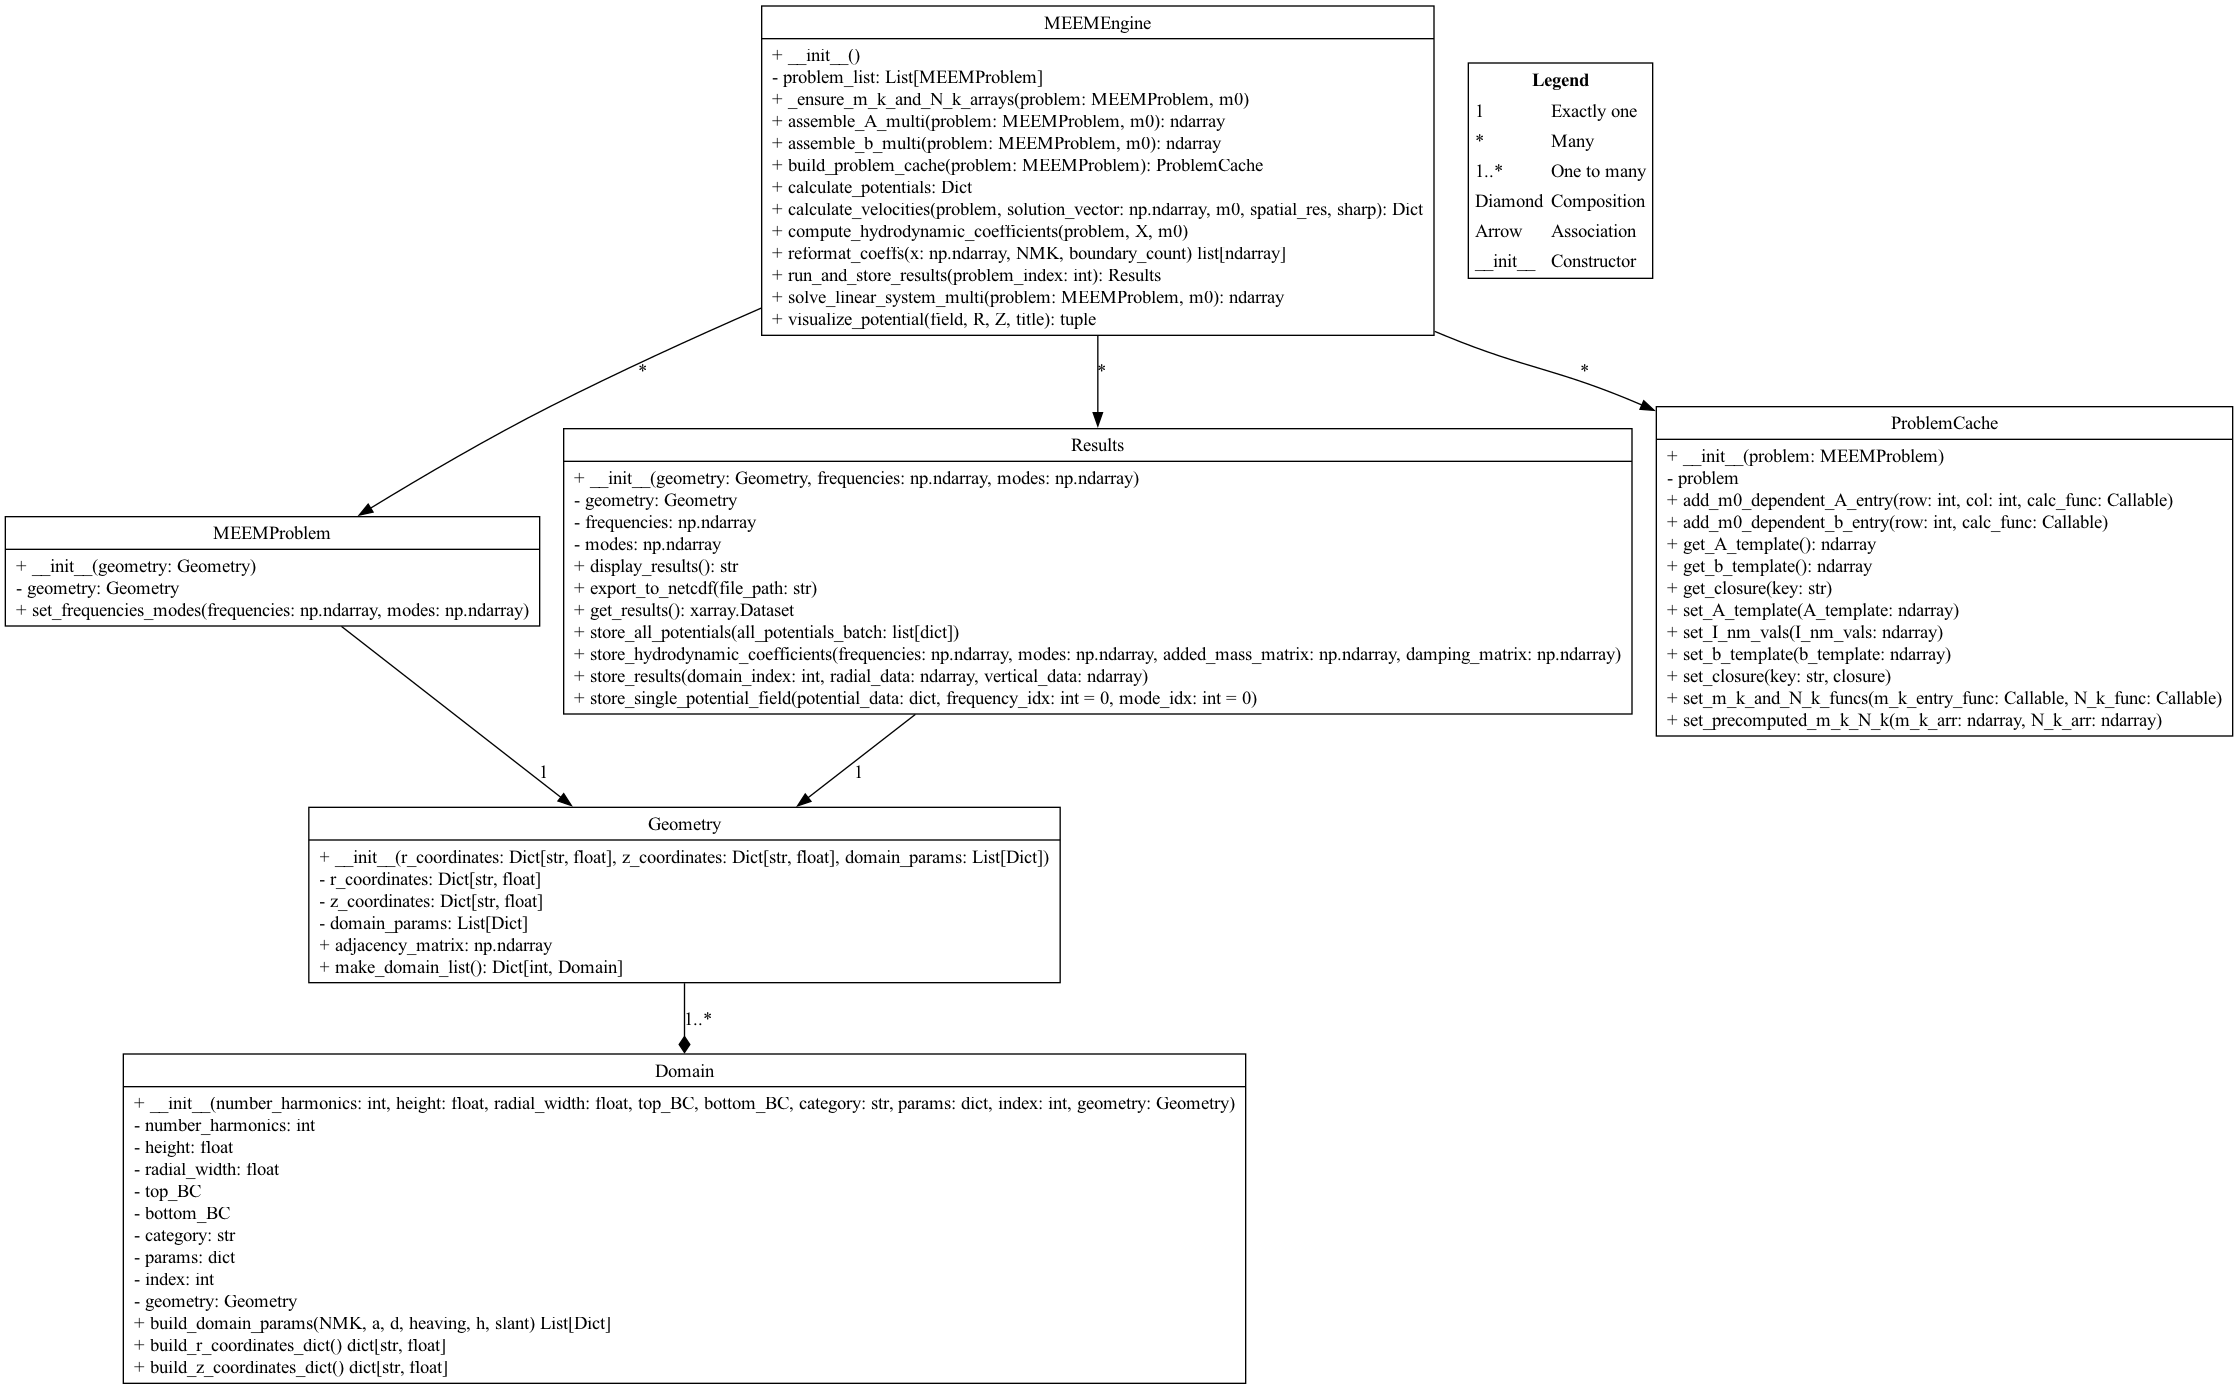
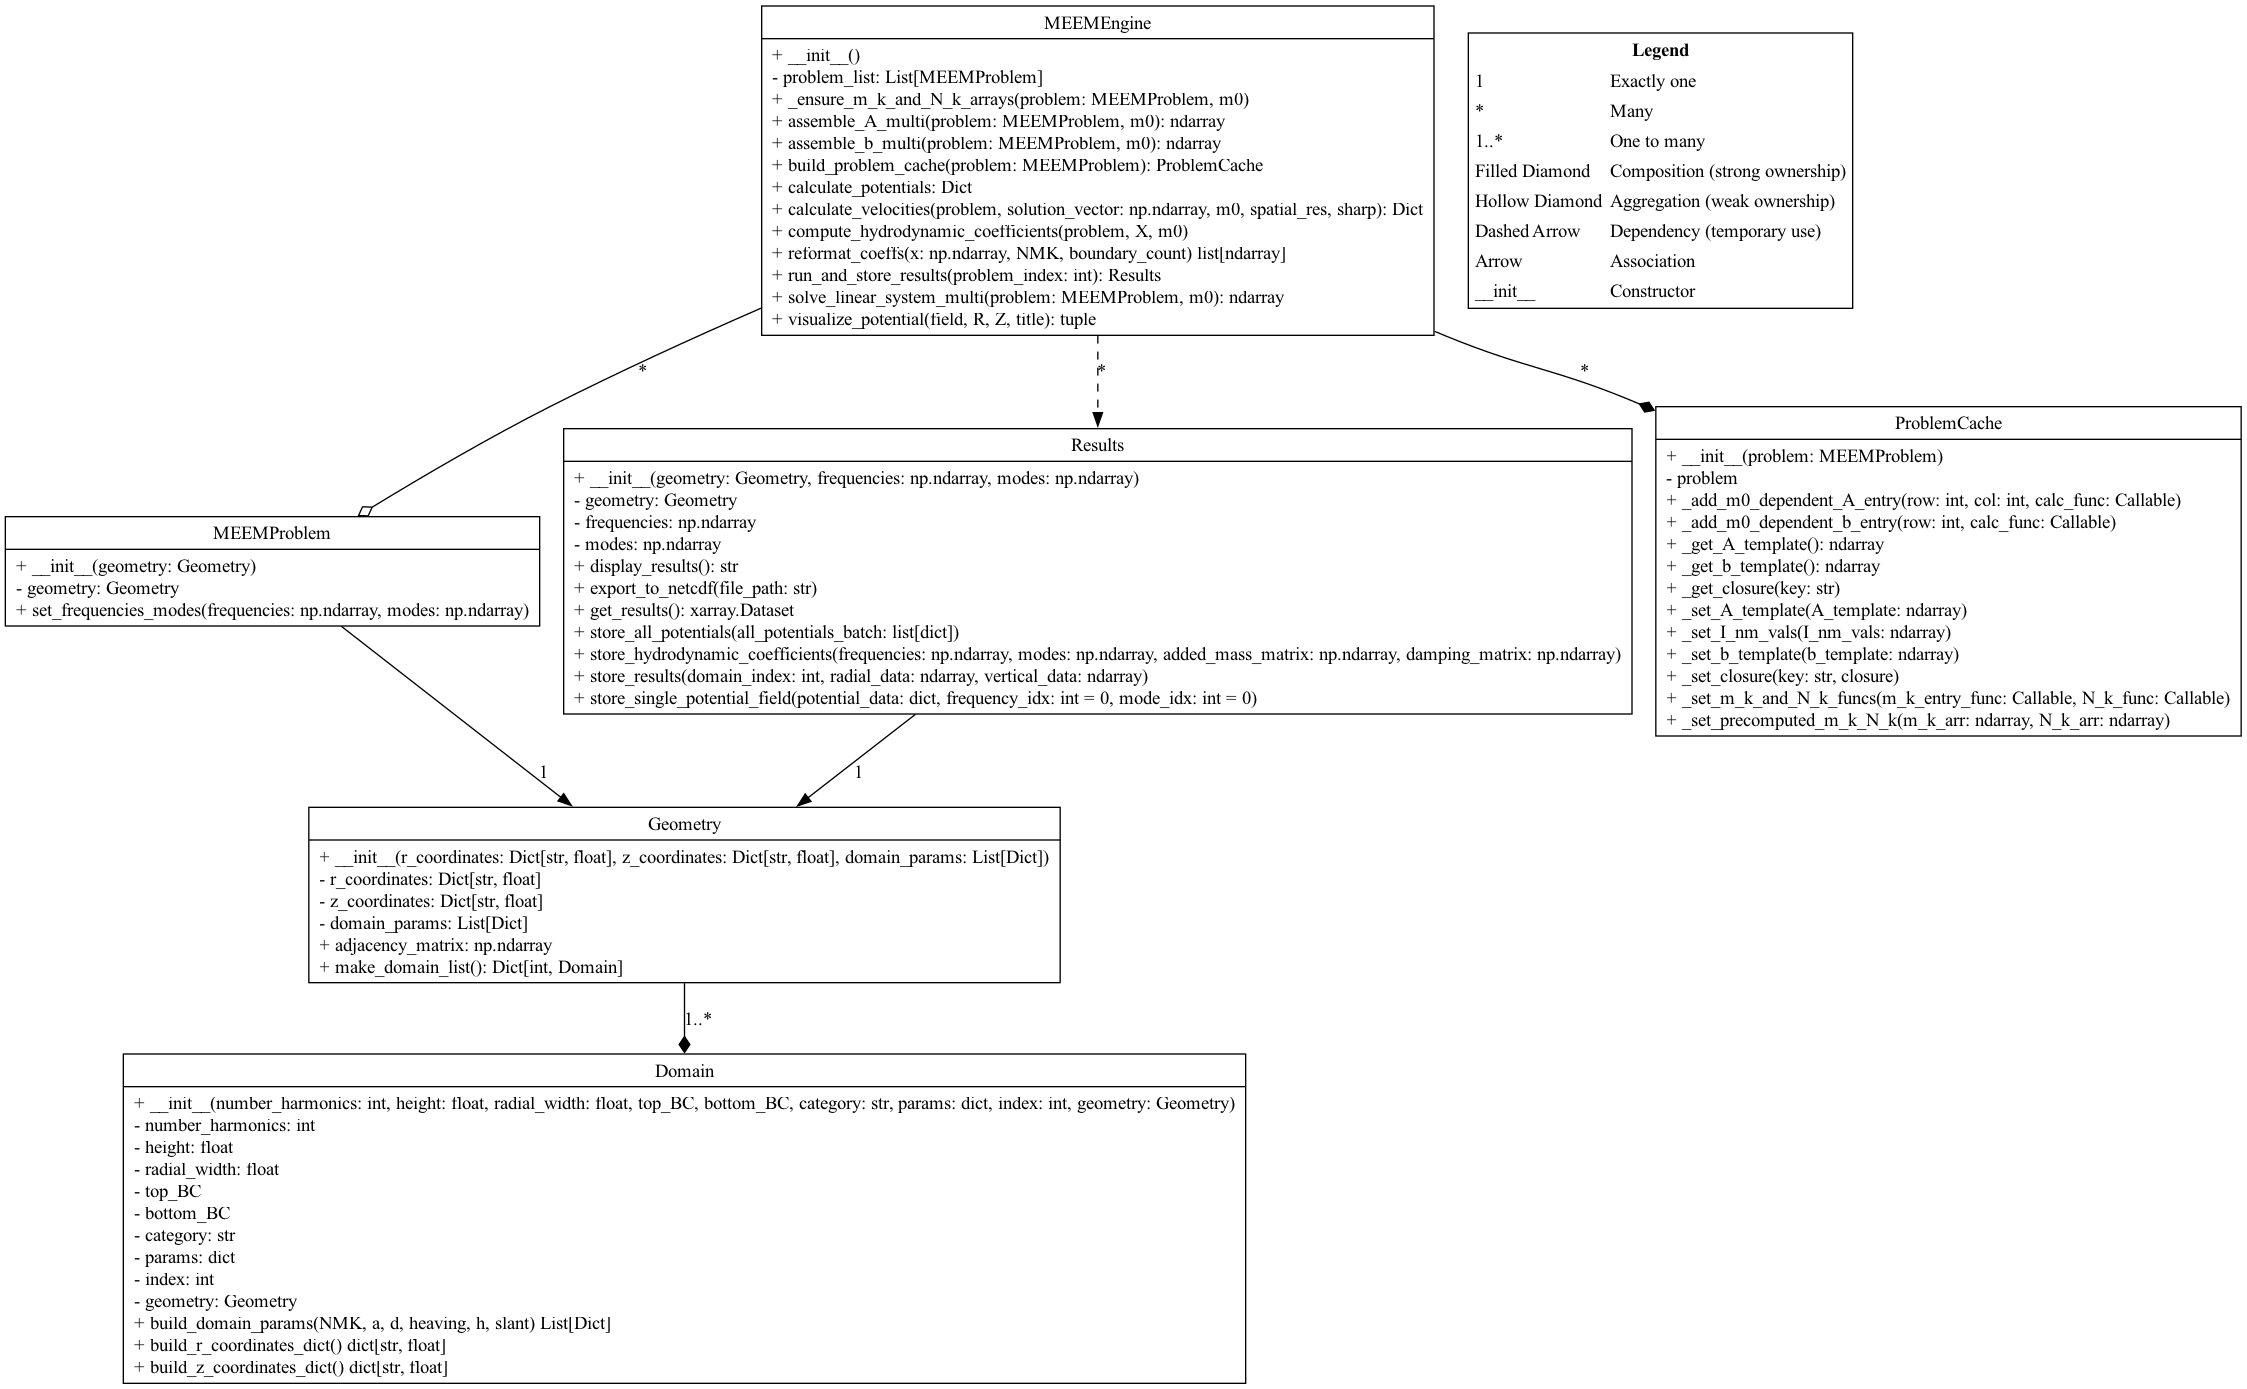
adding index.html for github pages

diff --git a/index.html b/index.html
@@ -1,0 +1,220 @@
+<!DOCTYPE html>
+<html>
+
+<head>
+    <meta charset="UTF-8" />
+    <meta http-equiv="X-UA-Compatible" content="IE=edge" />
+    <meta name="viewport" content="width=device-width, initial-scale=1, shrink-to-fit=no" />
+    <title>Stlite app</title>
+    <link rel="stylesheet" href="https://cdn.jsdelivr.net/npm/@stlite/browser@0.89.1/build/stlite.css" />
+</head>
+
+<body>
+    <div id="root"></div>
+    <script type="module">
+        import { mount } from "https://cdn.jsdelivr.net/npm/@stlite/browser@0.89.1/build/stlite.js"
+        mount(
+            {
+                requirements: ["matplotlib", "https://files.pythonhosted.org/packages/fa/b5/81a2490560017004e430d0bfd0dd21f5b7b25f442482e689593953c17f6c/open_flash-0.2.3-py3-none-any.whl", "xarray"],
+                entrypoint: "streamlit_app.py",
+                files: {
+                    "streamlit_app.py": `import streamlit as st
+import numpy as np
+import pandas as pd
+import matplotlib.pyplot as plt
+
+# --- Import core MEEM modules ---
+from openflash import *
+from openflash.multi_equations import m_k_newton # Needed to convert omega to m0
+
+# Set print options for better visibility in console
+np.set_printoptions(threshold=np.inf, linewidth=np.inf, precision=8, suppress=True)
+
+def main():
+    st.title("MEEM Multi-Cylinder Simulation")
+    st.sidebar.header("Configuration Parameters")
+
+    # --- User Inputs for Parameters ---
+    h = st.sidebar.slider("Water Depth (h)", 0.5, 5.0, 1.001, step=0.001)
+    
+    d_input = st.sidebar.text_input("Drafts (d) - comma-separated", "0.5,0.25")
+    a_input = st.sidebar.text_input("Cylinder Radii (a) - comma-separated", "0.5,1.0")
+    
+    heaving_input = st.sidebar.text_input("Heaving States (1/0) - one per domain", "1,0")
+    slant_input = st.sidebar.text_input("Slanted States (1/0) - one per domain", "0,0,0")
+    
+    NMK_input = st.sidebar.text_input("Number of Harmonics (NMK) - one per domain", "30,30,30")
+    
+    # --- UI for Single Point Test ---
+    st.sidebar.subheader("Single Frequency Test")
+    omega_single = st.sidebar.number_input("Angular Frequency (omega)", value=2.0)
+    spatial_res = st.sidebar.slider("Plot Spatial Resolution", min_value=20, max_value=150, value=75, step=5)
+
+    # --- UI for Frequency Sweep ---
+    st.sidebar.subheader("Frequency Sweep for Coefficients")
+    omega_start = st.sidebar.number_input("Start Omega", value=0.1)
+    omega_end = st.sidebar.number_input("End Omega", value=4.0)
+    omega_steps = st.sidebar.slider("Number of Steps", min_value=10, max_value=200, value=50)
+
+
+    # --- Parse and Validate Inputs ---
+    try:
+        d_list = list(map(float, d_input.split(',')))
+        a_list = list(map(float, a_input.split(',')))
+        heaving_list = list(map(int, heaving_input.split(',')))
+        slant_list = list(map(int, slant_input.split(',')))
+        NMK = list(map(int, NMK_input.split(',')))
+    except ValueError:
+        st.error("Invalid input format. Please use comma-separated numbers.")
+        st.stop()
+
+    boundary_count = len(NMK) - 1
+
+    # --- Geometry Setup (runs once) ---
+    try:
+        domain_params = Domain.build_domain_params(NMK, a_list, d_list, heaving_list, h, slant_list)
+        r_coords_for_geometry = Domain.build_r_coordinates_dict(a_list)
+        z_coordinates = Domain.build_z_coordinates_dict(h)
+        geometry = Geometry(r_coords_for_geometry, z_coordinates, domain_params)
+        problem = MEEMProblem(geometry)
+        problem_modes = np.arange(boundary_count)
+        problem.set_frequencies_modes(np.array([]), problem_modes) # Freqs will be set later
+    except Exception as e:
+        st.error(f"Error during geometry setup: {e}")
+        st.stop()
+    
+    # --- Main Action Buttons ---
+    st.header("Run Analysis")
+    col1, col2 = st.columns(2)
+
+    if col1.button("Run Single Test & Plot Potentials"):
+        st.info(f"Running simulation for single omega = {omega_single:.2f}")
+        # --- Convert single omega to m0 ---
+        m0_single = m_k_newton(h, omega_single)
+        
+        # --- MEEM Engine Operations ---
+        engine = MEEMEngine(problem_list=[problem])
+        X = engine.solve_linear_system_multi(problem, m0_single)
+        
+        # Display Hydrodynamic Coefficients for the single run
+        st.subheader("Hydrodynamic Coefficients (Single Run)")
+        hydro_coefficients = engine.compute_hydrodynamic_coefficients(problem, X, m0_single)
+        if hydro_coefficients:
+            df_coeffs = pd.DataFrame(hydro_coefficients)
+            st.dataframe(df_coeffs[['mode', 'real', 'imag', 'nondim_real', 'nondim_imag']])
+        else:
+            st.warning("Could not calculate hydrodynamic coefficients.")
+
+        # --- Visualize Potentials ---
+        st.subheader("Potential Field Plots")
+        potentials = engine.calculate_potentials(problem, X, m0_single, spatial_res, sharp=True)
+        R, Z, phi = potentials["R"], potentials["Z"], potentials["phi"]
+        
+        fig1, _ = engine.visualize_potential(np.real(phi), R, Z, "Total Potential (Real)")
+        st.pyplot(fig1)
+
+        fig2, _ = engine.visualize_potential(np.imag(phi), R, Z, "Total Potential (Imag)")
+        st.pyplot(fig2)
+        
+        st.success("Single frequency test complete.")
+
+    if col2.button("Run Frequency Sweep & Plot Coefficients"):
+        # --- Frequency Sweep Logic ---
+        omegas_to_run = np.linspace(omega_start, omega_end, omega_steps)
+        results_list = []
+        
+        engine = MEEMEngine(problem_list=[problem])
+        progress_bar = st.progress(0)
+        status_text = st.empty()
+
+        with st.spinner(f"Running simulation for {omega_steps} frequencies..."):
+            for i, omega_val in enumerate(omegas_to_run):
+                status_text.text(f"Calculating for omega = {omega_val:.3f}...")
+                try:
+                    m0_val = m_k_newton(h, omega_val)
+                    X = engine.solve_linear_system_multi(problem, m0_val)
+                    coeffs = engine.compute_hydrodynamic_coefficients(problem, X, m0_val)
+                    
+                    # Store results for each mode
+                    for c in coeffs:
+                        results_list.append({
+                            'omega': omega_val,
+                            'mode': c['mode'],
+                            'added_mass': c['real'],
+                            'damping': c['imag']
+                        })
+                except Exception as e:
+                    st.warning(f"Could not solve for omega={omega_val:.3f}. Error: {e}")
+                
+                progress_bar.progress((i + 1) / omega_steps)
+
+        status_text.text("Calculation complete. Generating plots...")
+        progress_bar.empty()
+
+        if not results_list:
+            st.error("No data was generated. Cannot create plots.")
+            st.stop()
+            
+        # Convert results to DataFrame for easy plotting
+        df_results = pd.DataFrame(results_list)
+
+        # --- Plotting Hydrodynamic Coefficients vs. Frequency ---
+        st.subheader("Hydrodynamic Coefficients vs. Frequency")
+        
+        fig, (ax1, ax2) = plt.subplots(2, 1, figsize=(10, 10), sharex=True)
+        
+        # Plot Added Mass
+        for mode, group in df_results.groupby('mode'):
+            ax1.plot(group['omega'], group['added_mass'], label=f'Mode {mode}')
+        ax1.set_title('Added Mass vs. Frequency')
+        ax1.set_ylabel('Added Mass (Real Part)')
+        ax1.legend()
+        ax1.grid(True, which='both', linestyle='--', linewidth=0.5)
+
+        # Plot Damping
+        for mode, group in df_results.groupby('mode'):
+            ax2.plot(group['omega'], group['damping'], label=f'Mode {mode}')
+        ax2.set_title('Damping vs. Frequency')
+        ax2.set_ylabel('Damping (Imaginary Part)')
+        ax2.set_xlabel('Angular Frequency (omega)')
+        ax2.legend()
+        ax2.grid(True, which='both', linestyle='--', linewidth=0.5)
+        
+        plt.tight_layout()
+        st.pyplot(fig)
+        
+        with st.expander("View Raw Data"):
+            st.dataframe(df_results)
+
+
+if __name__ == "__main__":
+    # Wrap main execution in a try-catch to handle potential errors gracefully
+    try:
+        main()
+    except Exception as e:
+        st.error(f"An unexpected error occurred: {e}")`,
[1 lines of base64/hex data omitted]
+                    "pages/🎈_subpage.py": `import streamlit as st
+
+st.title("Sub page")
+
+st.markdown("""
+_Stlite_ supports **Multi Page Apps (MPA)**, of course!
+
+Create \`pages/*.py\` like this file to add new pages.
+
+If you are new to MPA, read the official tutorial about it [🔗 here](https://docs.streamlit.io/library/get-started/multipage-apps)
+""")
+`,
+
+                },
+            },
+            document.getElementById("root")
+        )
+
+        function Uu(n) { const a = window.atob(n), i = a.length, l = new Uint8Array(i); for (let u = 0; u < i; u++)l[u] = a.charCodeAt(u); return l }
+    </script>
+</body>
+<!-- Generated from Stlite Sharing (https://edit.share.stlite.net/), and the source version is 8413a8fdd17b840f2870bdb8f43e8781722266bf -->
+
+</html>

diff --git a/pubs/figs/uml.py b/pubs/figs/uml.py
@@ -85,11 +85,22 @@ for cls, members in classes.items():
     dot.node(cls, shape="record", label=label)
 
 # Relationships
-dot.edge("Geometry", "Domain", arrowhead="diamond", label="1..*")  # Composition
+# Geometry owns Domain (Composition: filled diamond)
+dot.edge("Geometry", "Domain", arrowhead="diamond", style="filled", label="1..*")  
+
+# MEEMProblem references Geometry (Association)
 dot.edge("MEEMProblem", "Geometry", label="1")
-dot.edge("MEEMEngine", "MEEMProblem", label="*")
-dot.edge("MEEMEngine", "ProblemCache", label="*")
-dot.edge("MEEMEngine", "Results", label="*")
+
+# MEEMEngine aggregates MEEMProblem (Aggregation: hollow diamond)
+dot.edge("MEEMEngine", "MEEMProblem", arrowhead="odiamond", label="*")  
+
+# MEEMEngine composes ProblemCache (Composition: filled diamond)
+dot.edge("MEEMEngine", "ProblemCache", arrowhead="diamond", style="filled", label="*")  
+
+# MEEMEngine depends on Results (Dependency: dashed arrow)
+dot.edge("MEEMEngine", "Results", style="dashed", label="*")  
+
+# Results references Geometry (Association)
 dot.edge("Results", "Geometry", label="1")
 
 # Legend / Key node
@@ -99,7 +110,9 @@ legend = """<
   <TR><TD ALIGN="LEFT">1</TD><TD ALIGN="LEFT">Exactly one</TD></TR>
   <TR><TD ALIGN="LEFT">*</TD><TD ALIGN="LEFT">Many</TD></TR>
   <TR><TD ALIGN="LEFT">1..*</TD><TD ALIGN="LEFT">One to many</TD></TR>
-  <TR><TD ALIGN="LEFT">Diamond</TD><TD ALIGN="LEFT">Composition</TD></TR>
+  <TR><TD ALIGN="LEFT">Filled Diamond</TD><TD ALIGN="LEFT">Composition (strong ownership)</TD></TR>
+  <TR><TD ALIGN="LEFT">Hollow Diamond</TD><TD ALIGN="LEFT">Aggregation</TD></TR>
+  <TR><TD ALIGN="LEFT">Dashed Arrow</TD><TD ALIGN="LEFT">Dependency (temporary use)</TD></TR>
   <TR><TD ALIGN="LEFT">Arrow</TD><TD ALIGN="LEFT">Association</TD></TR>
   <TR><TD ALIGN="LEFT">__init__</TD><TD ALIGN="LEFT">Constructor</TD></TR>
 </TABLE>>"""
